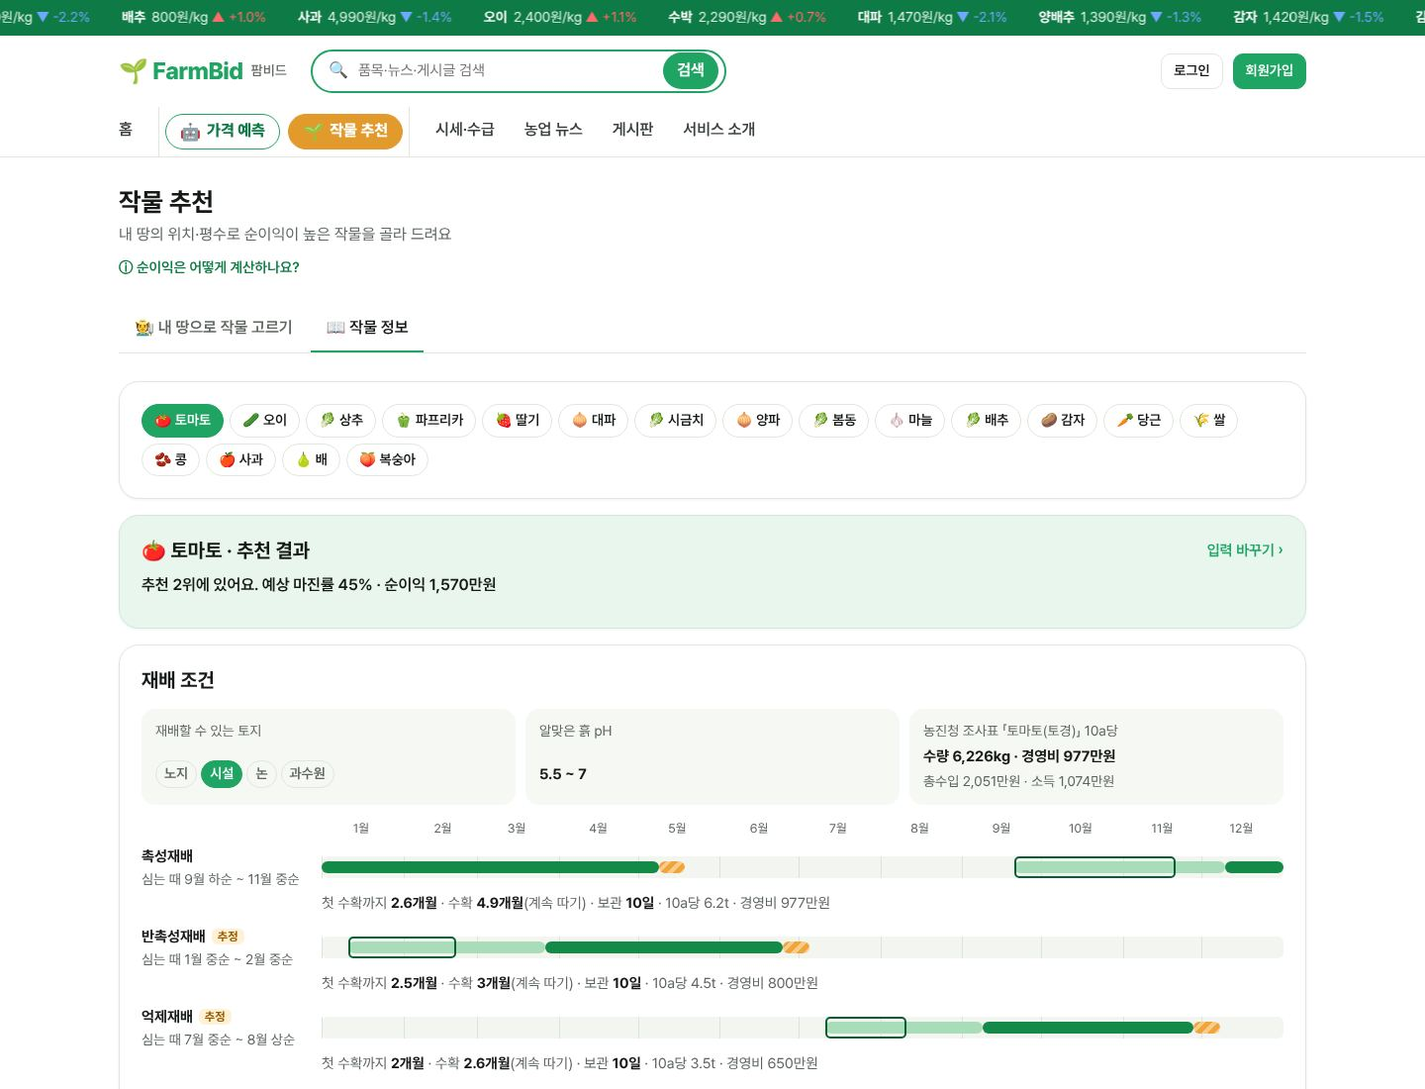
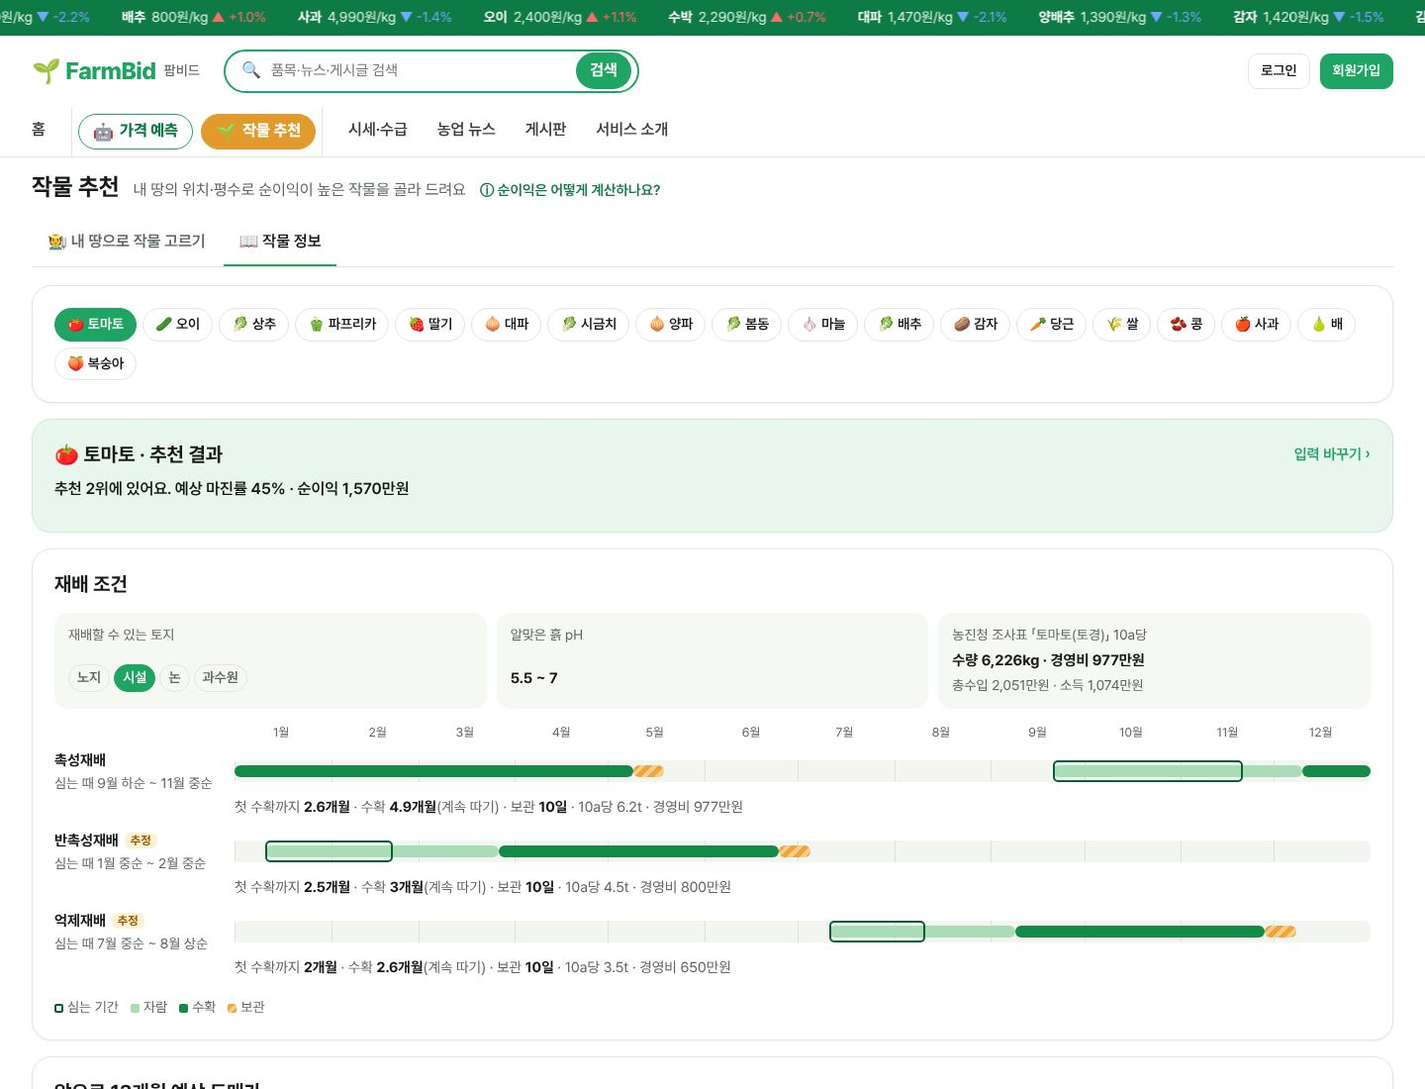
style: 강사님 피드백 — 여백 줄이기, 가격 예측 한 화면에, 홈 두 배너 강조·움직임
- 위 여백·칸 사이 줄임, 페이지 제목과 설명을 한 줄로 (모든 페이지)
- 양옆 여백 줄임: 본문 최대 폭 1240 → 1600px
- 가격 예측: 검색 칸을 두 줄로(날짜 / 부류·품목·품종·도매시장·검색하기), 최근 검색 기록 삭제 → 1920×1080 에서 검색과 그래프가 한 화면
- 홈: 가격 예측·작물 추천 카드에 진한 테두리·그림자, 빛줄기·깜빡이는 점, 예측선 그려지는 움직임,
  가장 비싼 날을 💰 빨간 상자(날짜·예상가·%)로, 작물 막대 차례로 자람·1위 👑. 지수 카드·차트는 차분하게, 시세 띠는 느리게
- "동작 줄이기" 설정이면 움직임 멈춤
- docs/05_ui_spec.md 와 캡처(docs/ui) 갱신, 변경 이력 기록

Claude-Session: https://claude.ai/code/session_01A5Bz2YFgwDEj3wEsMnATng

diff --git a/frontend/src/styles.css b/frontend/src/styles.css
@@ -18,7 +18,7 @@
   --danger: #d63a2f;
   --radius: 20px;
   --shadow: 0 1px 2px rgba(20, 60, 40, 0.04);
-  --max: 1240px;
+  --max: 1600px;
 }
 
 * { box-sizing: border-box; }
@@ -1096,3 +1096,83 @@ i.plant { background: transparent; border: 2px solid #0b5e33; box-sizing: border
 .mk-filter .cs-f { display: flex; flex-direction: column; align-items: stretch; gap: 4px; margin: 0; font-size: 13px; font-weight: 600; }
 .mk-filter .cs-f .input { width: 100%; }
 @media (max-width: 760px) { .mk-filter .cs { grid-template-columns: 1fr; } }
+
+/* ── 11-06 피드백: 위 여백 줄이기 · 가격 예측 한 화면에 · 홈 두 카드 강조 ── */
+.page { padding-top: 14px; gap: 18px; }
+.page-head { display: flex; align-items: baseline; gap: 6px 14px; flex-wrap: wrap; }
+.page-head h1 { font-size: 24px; }
+.page-head p { margin: 0; }
+.page-head .more-info { margin: 0; }
+.page-head.mk-head > div { display: flex; align-items: baseline; gap: 14px; flex-wrap: wrap; }
+.page-head.mk-head .mk-ai { margin-left: auto; }
+
+/* 가격 예측 검색: 두 줄 */
+.ps { padding: 4px 20px; }
+.ps-row { display: flex; align-items: center; gap: 10px 14px; flex-wrap: wrap; padding: 10px 0; border-bottom: 1px dashed #cfd5cc; }
+.ps-row:last-child { border-bottom: none; }
+.ps-lb { width: 72px; flex: none; }
+.ps .ps-date { width: 170px; height: 40px; }
+.ps-chip { padding: 7px 12px; }
+.ps .cs { gap: 10px; }
+.ps .cs-f .input { width: 140px; height: 40px; }
+.ps-actions { margin-left: auto; display: flex; align-items: center; gap: 12px; }
+.ps-go { padding: 10px 30px; font-size: 16px; }
+.predict-layout.stack { gap: 12px; }
+.predict-layout.stack > .card:not(.ps) { padding: 14px 18px; }
+
+/* 홈: 가격 예측·작물 추천 두 카드만 눈에 띄게, 나머지는 차분하게 */
+.page > .banner { padding: 8px 14px; font-size: 14px; }
+.core-feat .cf { border-width: 2px; box-shadow: 0 12px 32px rgba(20, 70, 40, 0.16); }
+.core-feat .cf.ai { border-color: #1fa463; }
+.core-feat .cf.rc { border-color: #e39a2d; }
+.core-feat .cf h2 { font-size: 24px; }
+.ix { background: var(--soft); border-color: transparent; box-shadow: none; }
+.ix-h { color: var(--muted); font-weight: 600; }
+.ix > b.num { font-size: 18px; }
+.db-chart, .db-rank, .db-bottom .card { box-shadow: none; }
+@media (max-width: 760px) {
+  .ps-lb { width: 100%; }
+  .ps .cs-f .input, .ps .ps-date { width: 100%; }
+  .ps-actions { margin-left: 0; width: 100%; } .ps-go { flex: 1; }
+}
+.container { padding: 0 32px; }
+@media (max-width: 760px) { .container { padding: 0 16px; } }
+
+/* 홈 두 카드: 움직임 (시세 띠보다 먼저 눈에 들어오게) */
+.ticker-track { animation-duration: 90s; }
+.core-feat .cf { overflow: hidden; isolation: isolate; }
+.core-feat .cf::after { content: ""; position: absolute; inset: 0; z-index: -1; pointer-events: none;
+  background: linear-gradient(115deg, transparent 35%, rgba(255,255,255,.75) 50%, transparent 65%); transform: translateX(-120%); animation: cf-sheen 7s ease-in-out infinite; }
+.core-feat .cf.rc::after { animation-delay: 3.5s; }
+@keyframes cf-sheen { 0%, 70% { transform: translateX(-120%); } 100% { transform: translateX(120%); } }
+.core-feat .cf-tag::before { content: ""; display: inline-block; width: 7px; height: 7px; border-radius: 50%; background: currentColor; margin-right: 6px; vertical-align: 1px; animation: cf-blink 1.6s ease-in-out infinite; }
+@keyframes cf-blink { 50% { opacity: .25; } }
+/* 작은 예측 그래프: 예측 부분이 왼쪽에서 오른쪽으로 그려지고, 가장 비싼 날 점이 깜빡임 */
+.mini-fc .wipe { animation: mf-wipe 6s ease-out infinite; transform-box: fill-box; transform-origin: left; }
+@keyframes mf-wipe { 0% { transform: scaleX(0); } 45%, 100% { transform: scaleX(1); } }
+.mini-fc .now { fill: #4e5968; }
+.mini-fc .best-dot { fill: #e5483e; stroke: #fff; stroke-width: 1.5; vector-effect: non-scaling-stroke; }
+.mini-fc .best-ring { fill: none; stroke: #e5483e; stroke-width: 2; vector-effect: non-scaling-stroke; transform-box: fill-box; transform-origin: center; animation: mf-ring 1.8s ease-out infinite; }
+@keyframes mf-ring { 0% { transform: scale(1); opacity: .9; } 100% { transform: scale(3.2); opacity: 0; } }
+/* 가장 비싼 날 강조 */
+.cf-best { display: flex; align-items: center; gap: 10px; background: linear-gradient(135deg, #fff1ee, #ffe2dc); border: 1.5px solid #f3a99f; border-radius: 12px; padding: 8px 12px; animation: cf-glow 2.4s ease-in-out infinite; }
+@keyframes cf-glow { 50% { box-shadow: 0 0 0 4px rgba(229, 72, 62, .14); } }
+.cf-best .ic { font-size: 22px; animation: cf-bob 2.4s ease-in-out infinite; }
+@keyframes cf-bob { 50% { transform: translateY(-3px) rotate(-8deg); } }
+.cf-best .t { display: flex; flex-direction: column; } .cf-best .t small { font-size: 12px; color: #9a3b33; font-weight: 700; }
+.cf-best .t b { font-size: 22px; color: #c2271d; letter-spacing: -.5px; line-height: 1.15; }
+.cf-best .v { margin-left: auto; display: flex; flex-direction: column; align-items: flex-end; } .cf-best .v b { font-size: 17px; } .cf-best .v span { font-size: 14px; font-weight: 800; }
+.cf-stats.three { grid-template-columns: repeat(3, 1fr); }
+/* 작물 추천: 막대가 차례로 자라고, 1위 줄이 살짝 빛남 */
+.cf-crops .bar i { transform-origin: left; animation: cf-grow 1.1s cubic-bezier(.2,.8,.2,1) both; animation-delay: calc(var(--i, 0) * .18s + .2s); }
+@keyframes cf-grow { from { transform: scaleX(0); } }
+.cf-crops li:first-child { border-radius: 10px; animation: cf-first 3s ease-in-out infinite; }
+@keyframes cf-first { 50% { background: rgba(255, 255, 255, .7); } }
+.cf-crops li:first-child .n::after { content: "👑"; font-size: 12px; margin-left: 2px; }
+@media (prefers-reduced-motion: reduce) {
+  .core-feat .cf::after, .core-feat .cf-tag::before, .mini-fc .wipe, .mini-fc .best-ring, .cf-best, .cf-best .ic, .cf-crops .bar i, .cf-crops li:first-child { animation: none; }
+}
+.cf-crops .n { width: auto; min-width: 14px; white-space: nowrap; }
+.core-feat .cf.ai .cf-side { padding-top: 34px; }
+.mini-fc { overflow: visible; }
+@media (max-width: 760px) { .core-feat .cf.ai .cf-side { padding-top: 0; } }

diff --git a/frontend/src/components/PredictSearch.jsx b/frontend/src/components/PredictSearch.jsx
@@ -1,39 +1,16 @@
 import { useState } from "react";
-import { useAuth } from "./AuthContext";
 import CropSelect from "./CropSelect";
-import { ITEMS50, itemOf } from "../mocks/items50";
-import { addDays, daysBetween, shortDate } from "../utils/format";
-
-// 최근 검색은 로그인한 사람만, 사람마다 따로 (이 브라우저에만 저장. 나중에 회원 API 로 옮길 수 있음)
-const keyOf = (user) => `farmbid.predict.recent.${user.id}`;
-const loadRecent = (user) => { if (!user) return []; try { return JSON.parse(localStorage.getItem(keyOf(user))) ?? []; } catch { return []; } };
-const saveRecent = (user, v) => { try { localStorage.setItem(keyOf(user), JSON.stringify(v)); } catch { /* 저장 안 돼도 괜찮음 */ } };
+import { ITEMS50 } from "../mocks/items50";
+import { addDays, daysBetween } from "../utils/format";
 
 /**
- * 가격 예측 조건: 예측 날짜 · 부류 → 품목 → 품종 · 도매시장 · (로그인 시) 최근 검색
+ * 가격 예측 조건 (두 줄): ① 예측 날짜 + 빠른 버튼 ② 부류 → 품목 → 품종 · 도매시장 · 선택초기화 · [검색하기]
  * value = { item, variety, market, date } — [검색하기] 를 눌러야 onSearch 로 넘어간다
  */
 export default function PredictSearch({ value, markets, horizons, today, maxDays, onSearch }) {
-  const { user } = useAuth();
   const [draft, setDraft] = useState(value);
-  const [recent, setRecent] = useState(() => loadRecent(user));
   const set = (patch) => setDraft((d) => ({ ...d, ...patch }));
   const bySido = markets.reduce((g, m) => ((g[m.sido] = g[m.sido] ?? []).push(m), g), {});
-  const marketName = (c) => markets.find((m) => m.code === c)?.name ?? "";
-  const label = (d) => {
-    const i = itemOf(d.item);
-    const v = i?.varieties.find((x) => x.id === d.variety);
-    return [i?.name, v ? v.label : "전체 품종", marketName(d.market)].join(" / ");
-  };
-
-  const search = () => {
-    if (user) {
-      const next = [draft, ...recent.filter((r) => label(r) !== label(draft))].slice(0, 4);
-      setRecent(next); saveRecent(user, next);
-    }
-    onSearch(draft);
-  };
-  const removeRecent = (r) => { const next = recent.filter((x) => x !== r); setRecent(next); saveRecent(user, next); };
   const reset = () => setDraft({ ...value, item: ITEMS50[0].code, variety: "", date: addDays(today, 30) });
   const horizon = daysBetween(today, draft.date);
 
@@ -41,42 +18,28 @@ export default function PredictSearch({ value, markets, horizons, today, maxDays
     <section className="card ps">
       <div className="ps-row">
         <span className="ps-lb">예측 날짜</span>
-        <div className="ps-fields">
-          <input type="date" className="input ps-date" value={draft.date} min={addDays(today, 1)} max={addDays(today, maxDays)}
-            onChange={(e) => e.target.value && set({ date: e.target.value })} aria-label="예측 날짜" />
-          <div className="ps-chips">
-            {horizons.map((h) => (
-              <button key={h.days} type="button" className={`ps-chip ${horizon === h.days ? "on" : ""}`} onClick={() => set({ date: addDays(today, h.days) })}>{h.label} 후</button>
-            ))}
-          </div>
+        <input type="date" className="input ps-date" value={draft.date} min={addDays(today, 1)} max={addDays(today, maxDays)}
+          onChange={(e) => e.target.value && set({ date: e.target.value })} aria-label="예측 날짜" />
+        <div className="ps-chips">
+          {horizons.map((h) => (
+            <button key={h.days} type="button" className={`ps-chip ${horizon === h.days ? "on" : ""}`} onClick={() => set({ date: addDays(today, h.days) })}>{h.label} 후</button>
+          ))}
         </div>
       </div>
       <div className="ps-row">
         <span className="ps-lb">품목</span>
         <CropSelect item={draft.item} variety={draft.variety} onChange={set} warn />
-      </div>
-      <div className="ps-row">
-        <span className="ps-lb">도매시장</span>
-        <div className="ps-fields">
-          <select className="input ps-sel wide" value={draft.market} onChange={(e) => set({ market: e.target.value })} aria-label="도매시장">
+        <label className="cs-f"><span>도매시장</span>
+          <select className="input" value={draft.market} onChange={(e) => set({ market: e.target.value })}>
             {Object.entries(bySido).map(([sido, ms]) => (
               <optgroup key={sido} label={sido}>{ms.map((m) => <option key={m.code} value={m.code}>{m.name}</option>)}</optgroup>
             ))}
           </select>
-        </div>
-      </div>
-      <div className="ps-foot">
-        <div className="ps-recent">
-          {user && recent.length > 0 && <span className="ps-rl">최근 검색</span>}
-          {user && recent.map((r) => (
-            <span key={label(r)} className="ps-tag">
-              <button type="button" onClick={() => { setDraft(r); onSearch(r); }}>{label(r)} · {shortDate(r.date)}</button>
-              <button type="button" className="x" aria-label="최근 검색 지우기" onClick={() => removeRecent(r)}>×</button>
-            </span>
-          ))}
-        </div>
-        <button type="button" className="ps-reset" onClick={reset}>↻ 선택초기화</button>
-        <button type="button" className="ps-go" onClick={search}>검색하기</button>
+        </label>
+        <span className="ps-actions">
+          <button type="button" className="ps-reset" onClick={reset}>↻ 초기화</button>
+          <button type="button" className="ps-go" onClick={() => onSearch(draft)}>검색하기</button>
+        </span>
       </div>
     </section>
   );

diff --git a/frontend/src/pages/HomeDashboard.jsx b/frontend/src/pages/HomeDashboard.jsx
@@ -16,24 +16,32 @@ const pctOf = (v, base) => Math.round(((v - base) / base) * 1000) / 10;
 const Warn = ({ code }) => (LOW_ACCURACY.has(code) ? <span className="ip-warn" title="예측 정확도가 낮은 품목">!</span> : null);
 
 /** 지난 가격(실선) + AI 예측(점선·띠) 작은 그래프 */
-function MiniForecast({ p, days = 30, height = 96 }) {
+function MiniForecast({ p, days = 30, height = 96, best }) {
   const w = 300;
   const hist = p.history.map((h) => h.price);
   const fc = p.forecast.slice(0, days);
-  const all = [...hist, ...fc.flatMap((f) => [f.lower, f.upper])];
+  const all = [...hist, ...fc.flatMap((f) => [f.lower, f.upper]), best?.price ?? hist[0]];
   const lo = Math.min(...all), hi = Math.max(...all);
   const n = hist.length + fc.length - 1;
   const X = (i) => (i * w) / n;
   const Y = (v) => 6 + ((hi - v) / (hi - lo || 1)) * (height - 12);
   const k = hist.length - 1;
   const f = (sel) => fc.map((x, j) => `${X(k + j + 1)},${Y(sel(x))}`);
+  // 가장 비싼 날이 그래프 기간(30일) 안이면 그 자리, 밖이면 오른쪽 끝에 점
+  const bi = best ? fc.findIndex((x) => x.date === best.date) : -1;
+  const bx = bi >= 0 ? X(k + bi + 1) : w - 4, by = best ? Y(Math.min(best.price, hi)) : 0;
   return (
     <svg className="mini-fc" viewBox={`0 0 ${w} ${height}`} preserveAspectRatio="none" role="img" aria-label="지난 가격과 AI 예측">
+      <defs><clipPath id="mf-wipe"><rect className="wipe" x={X(k)} y={0} width={w - X(k)} height={height} /></clipPath></defs>
       <rect x={X(k)} y={0} width={w - X(k)} height={height} className="bg" />
-      <polygon className="band" points={[`${X(k)},${Y(hist[k])}`, ...f((x) => x.upper), ...f((x) => x.lower).reverse()].join(" ")} />
       <polyline className="past" points={hist.map((v, i) => `${X(i)},${Y(v)}`).join(" ")} />
-      <polyline className="pred" points={[`${X(k)},${Y(hist[k])}`, ...f((x) => x.price)].join(" ")} />
+      <g clipPath="url(#mf-wipe)">
+        <polygon className="band" points={[`${X(k)},${Y(hist[k])}`, ...f((x) => x.upper), ...f((x) => x.lower).reverse()].join(" ")} />
+        <polyline className="pred" points={[`${X(k)},${Y(hist[k])}`, ...f((x) => x.price)].join(" ")} />
+      </g>
       <line x1={X(k)} x2={X(k)} y1={0} y2={height} className="div" />
+      <circle className="now" cx={X(k)} cy={Y(hist[k])} r="3.5" />
+      {best && <><circle className="best-ring" cx={bx} cy={by} r="5" /><circle className="best-dot" cx={bx} cy={by} r="4" /></>}
     </svg>
   );
 }
@@ -66,13 +74,17 @@ export function CoreFeatures({ movers, items }) {
         {p && (
           <div className="cf-side">
             <div className="mini-fc-wrap">
-              <MiniForecast p={p} height={56} />
+              <MiniForecast p={p} height={56} best={best} />
             </div>
-            <div className="cf-stats">
+            <div className="cf-best">
+              <span className="ic" aria-hidden>💰</span>
+              <div className="t"><small>가장 비싼 날</small><b>{shortDate(best.date)}</b></div>
+              <div className="v"><b className="num">{won(best.price)}원</b><span className="up">▲ {pctOf(best.price, p.base_price).toFixed(1)}%</span></div>
+            </div>
+            <div className="cf-stats three">
               {[["1주 뒤", at(7)], ["1개월 뒤", at(30)], ["3개월 뒤", at(90)]].map(([t, v]) => (
                 <div key={t}><small>{t}</small><PctChange value={v} /></div>
               ))}
-              <div><small>가장 비싼 날</small><b>{shortDate(best.date)}</b></div>
             </div>
           </div>
         )}
@@ -83,7 +95,7 @@ export function CoreFeatures({ movers, items }) {
         <h2>🌱 내 땅에는 <em>무엇을 심을까?</em></h2>
         <ol className="cf-crops">
           {crops.length ? crops.map((c, i) => (
-            <li key={`${c.crop}-${c.land_type}`} title={`${shortDate(c.plant_date)} 시작 → ${shortDate(c.harvest_start)}~${shortDate(c.harvest_end)} 수확`}>
+            <li key={`${c.crop}-${c.land_type}`} style={{ "--i": i }} title={`${shortDate(c.plant_date)} 시작 → ${shortDate(c.harvest_start)}~${shortDate(c.harvest_end)} 수확`}>
               <span className="n">{i + 1}</span>
               <span className="e">{c.emoji}</span>
               <span className="nm">{c.crop_name}</span>

diff --git a/docs/05_ui_spec.md b/docs/05_ui_spec.md
@@ -18,6 +18,7 @@
 | 가격 | 원/kg, 공영도매시장 경매 단가. 따로 고르지 않으면 전국 도매시장 평균 · 상 등급 |
 | 색 | 우리 색 초록 `#1fa463`(가격 예측) · 주황 `#e39a2d`(작물 추천). **상승 빨강 `#e5483e` · 하락 파랑 `#2f6fe4`** (국내 시세 표기 관례) |
 | 글자 | 본문 16px, 가장 작은 글자 12px, 회색 글자 `#5d655f`(흰 바탕 명암비 약 6:1) |
+| 폭·여백 | 본문 최대 폭 1600px, 창 안쪽 여백 32px(휴대폰 16px). 메뉴와 페이지 제목 사이 14px, 칸 사이 18px. 페이지 제목과 설명은 한 줄 |
 | 문구 | 화면에는 숫자와 짧은 이름표만. 계산 방법 같은 긴 설명은 "ⓘ ○○은 어떻게 계산하나요?" 접는 칸에 |
 | 품목 | **50품목**(`shared/items50.json`). 가격 예측·시세·작물 추천은 **세부 품종**까지, 대시보드는 품목 단위 |
 | 예측 정확도 낮은 품목 | 1개월 오차 35% 이상이거나 참고용 기간이 있는 품목 → 품목 목록에 `(!)`, 화면에 "❗ 예측 정확도 낮음" (기준은 `frontend/src/mocks/accuracy.js`) |
@@ -61,8 +62,8 @@
 | # | 구역 | 보여 주는 것 | 누르면 | API |
 |---|---|---|---|---|
 | 1 | 공지 배너 | 홈에 띄우기로 한 공지 (예: 서리 주의보) | - | 2장 공지 |
-| 2 | **가격 예측 카드** (초록) | "수확한 작물, 언제 팔까?" · 30일 뒤 가장 크게 오를 품목(정확도 낮은 품목 제외)의 예상가·등락률·지금 가격 · 작은 그래프(지난 2주 + AI 30일) · 1주/1개월/3개월 뒤 등락률 · 가장 비싼 날 | 가격 예측 화면 | 1-4, 1-5 |
-| 3 | **작물 추천 카드** (주황) | "내 땅에는 무엇을 심을까?" · 예시 땅(경기 · 노지 1,200평 + 시설 600평) 순이익 1~3위 작물과 막대 | 작물 추천 화면 | 1-6 |
+| 2 | **가격 예측 카드** (초록, 진한 테두리·그림자로 강조) | "수확한 작물, 언제 팔까?" · 30일 뒤 가장 크게 오를 품목(정확도 낮은 품목 제외)의 예상가·등락률·지금 가격 · 작은 그래프(지난 2주 + AI 30일, 예측선이 왼쪽→오른쪽으로 그려지는 움직임, 가장 비싼 날 빨간 점) · **💰 가장 비싼 날** 빨간 상자(날짜·그날 예상가·오늘 대비 %) · 1주/1개월/3개월 뒤 등락률 | 가격 예측 화면 | 1-4, 1-5 |
+| 3 | **작물 추천 카드** (주황, 진한 테두리·그림자로 강조) | "내 땅에는 무엇을 심을까?" · 예시 땅(경기 · 노지 1,200평 + 시설 600평) 순이익 1~3위 작물과 막대(차례로 자람, 1위 👑) | 작물 추천 화면 | 1-6 |
 | 4 | **지수 카드 8개** | 전체 + 7묶음(잎채소 · 양채·나물 · 열매채소 · 양념채소 · 뿌리·곡물 · 과일 · 버섯) · 어제보다 등락률(큰 숫자) · 30거래일 흐름 그래프 + AI 30일 점선 · "AI 30일 뒤 ▲ n% 상승" | 시세 화면 | 2-16, 1-5 |
 | 5 | **품목 차트** | 품목 이름·오늘 가격·어제보다 · 기간(1주/1개월/3개월/1년) · 캔들 차트(오르면 빨강, 내리면 파랑) + AI 30일 예측 띠 · AI 30일 뒤 예상가 · [언제 팔지 보기] | 가격 예측 화면 | 2-15 history, 1-4 |
 | 6 | **실시간 품목 순위** | 탭: 거래량 많은 · 많이 오른 · 많이 내린 · AI 상승 예상 · AI 하락 예상 · 8개 | 줄을 누르면 왼쪽 차트가 그 품목으로 | 2-1, 1-5 |
@@ -70,6 +71,7 @@
 | 8 | 농업 뉴스 | 헤드라인 6개 · 이번 주 많이 나온 품목 · 내 관심 품목 뉴스 | 언론사 기사 | 2-14 |
 | 9 | 우리 지역 농업 날씨 | 시·도 지도(기온 색) · 고른 지역 날씨·특보·최근 날씨 · 그 지역 도매시장 | 시세 화면 | 2-7 |
 
+- 두 카드가 첫눈에 들어오게: 빛줄기가 7초마다 스치고 태그 앞 점이 깜빡임. 지수 카드·차트·순위는 회색 바탕·그림자 없이 차분하게. 위 시세 띠는 90초에 한 바퀴로 느리게. 컴퓨터의 "동작 줄이기" 설정이면 움직임을 모두 멈춤
 - 품종은 나누지 않고 **50품목 단위**로만 보여 줌
 - 관심 품목 칸:
   - 로그인 + 관심 품목 있음 → "⭐ 내 관심 품목" (5개 넘으면 전체 보기)
@@ -89,12 +91,14 @@
 
 ### 2-1. 검색 조건 (`components/PredictSearch.jsx`)
 
+검색 칸은 **두 줄**이라 1920×1080 화면에서 검색·예상 가격·그래프가 스크롤 없이 한 화면에 들어온다.
+
 | 줄 | 입력 | 규칙 |
 |---|---|---|
-| 예측 날짜 | 날짜 하나 + 빠른 버튼(1주·2주·1개월·3개월·6개월·1년 후) | 내일 ~ 1년 뒤. 시작일은 오늘이라 받지 않음. 기본 1개월 후 |
-| 품목 | **부류 → 품목 → 품종** (`components/CropSelect.jsx`) | 부류를 바꾸면 그 부류 첫 품목, 품목을 바꾸면 품종은 "전체". 품종 목록은 이름 있는 품종 먼저, "기타 (철 · 산지)" 는 뒤에. 정확도 낮은 품목은 `(!)` |
-| 도매시장 | 시·도로 묶은 공영 도매시장 32곳 | 기본 서울가락 |
-| 아래 | 최근 검색 · ↻ 선택초기화 · **[검색하기]** | [검색하기] 를 눌러야 결과가 바뀜. **최근 검색은 로그인한 사람만** 4개(사람마다 따로, 지금은 브라우저에 저장) — 누르면 그 조건으로 다시 검색, ×로 지움 |
+| ① 예측 날짜 | 날짜 하나 + 빠른 버튼(1주·2주·1개월·3개월·6개월·1년 후) | 내일 ~ 1년 뒤. 시작일은 오늘이라 받지 않음. 기본 1개월 후 |
+| ② 품목 | **부류 → 품목 → 품종** (`components/CropSelect.jsx`) · 도매시장 · ↻ 초기화 · **[검색하기]** | 부류를 바꾸면 그 부류 첫 품목, 품목을 바꾸면 품종은 "전체". 품종 목록은 이름 있는 품종 먼저, "기타 (철 · 산지)" 는 뒤에. 정확도 낮은 품목은 `(!)`. 도매시장은 시·도로 묶은 32곳, 기본 서울가락. [검색하기] 를 눌러야 결과가 바뀜 |
+
+- 최근 검색 기록은 넣지 않음 (11-06 피드백: 여백만 차지해서 뺌)
 
 - 조건은 주소에 담김: `/ai?item=apple&variety=apple-2&market=110001&date=2027-02-04` (새로고침·공유해도 같은 화면)
 
@@ -247,3 +251,4 @@ API 2-8 ~ 2-11
 | 날짜 | 내용 | 작성자 |
 |---|---|---|
 | 2026-11-06 | 최초 작성 — 지금 화면 기준(50품목 · 품종, 대시보드 주식 앱 형태, 가격 예측 검색 조건, 작물 추천 품종 묶기, 시세 품종, 설명 글씨 정리 반영). 화면 캡처 `docs/ui/` | |
+| 2026-11-06 | 강사님 피드백 반영 — 위·양옆 여백 축소(본문 폭 1600px), 페이지 제목 한 줄, 가격 예측 검색 두 줄·최근 검색 삭제, 홈 두 카드 강조·움직임·💰 가장 비싼 날 상자. 캡처 교체 | |
